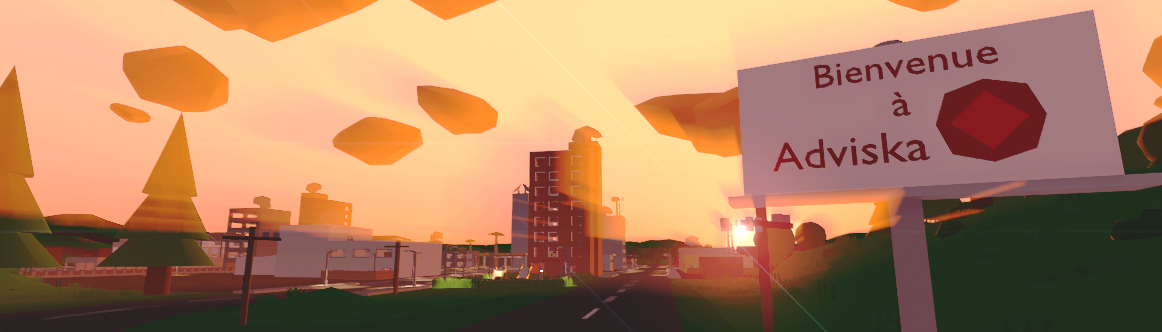
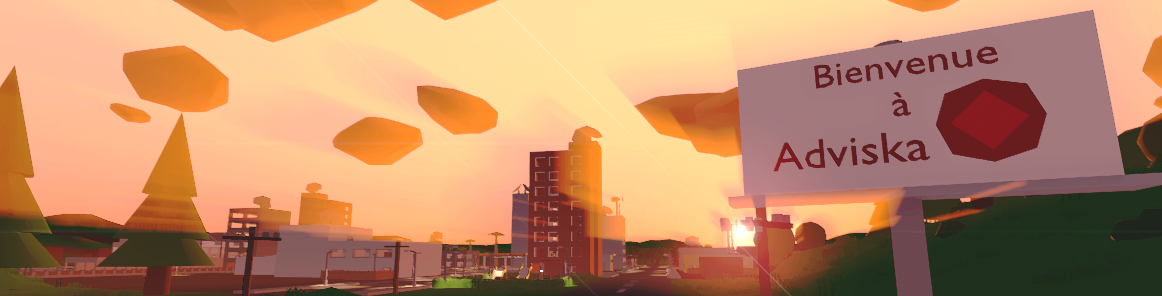
Changement bannière png vers webp

diff --git a/public/css/styles.css b/public/css/styles.css
@@ -10,7 +10,7 @@ header {
 }
 
 .jumbotron-banner-nepeta {
-    background-image: url("/uploads/rhiven_banner.png");
+    background-image: url("/uploads/rhiven_banner.webp");
 }
 
 nav {
